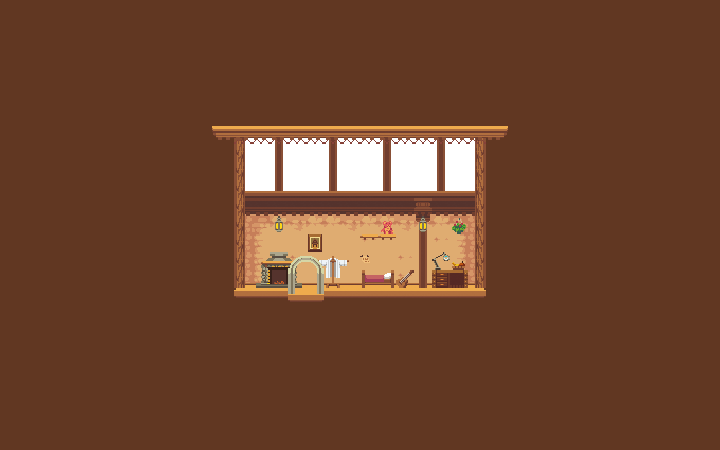
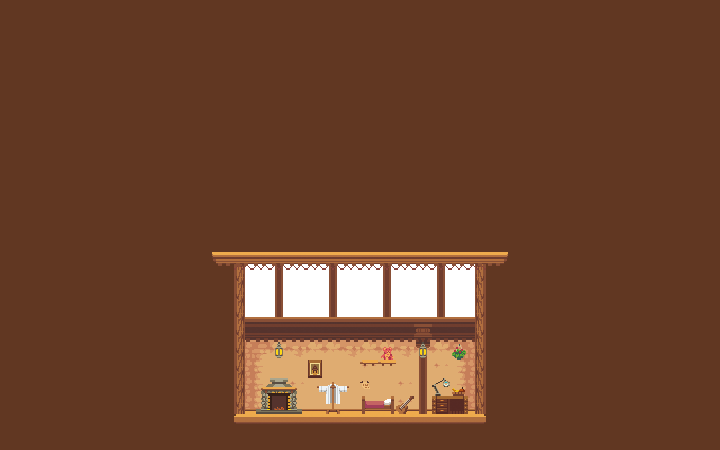
feat : Lisa, Inventory 추가

Changed region(s): [[0.275, 0.28, 0.7028, 0.9644]]

diff --git a/WinAPI/CSceneStore.cpp b/WinAPI/CSceneStore.cpp
@@ -1,2 +1,105 @@
 #include "framework.h"
 #include "CSceneStore.h"
+
+#include "WinAPI.h"
+#include "CInputManager.h"
+#include "CTimeManager.h"
+#include "CRenderManager.h"
+#include "CEventManager.h"
+#include "CCameraManager.h"
+#include "CPathManager.h"
+
+#include "CPlayer.h"
+#include "CSlug.h"
+#include "CCameraController.h"
+#include "CButton.h"
+#include "CPanel.h"
+#include "CResourceManager.h"
+#include "CImage.h"
+#include "CImageObject.h"
+#include "CSoundManager.h"
+#include "CGameManager.h"
+#include "CDoor.h"
+#include "CCarol.h"
+#include "CLisa.h"
+
+CSceneStore::CSceneStore()
+{
+	pPlayer = nullptr;
+	m_pImage = nullptr;
+}
+
+CSceneStore::~CSceneStore()
+{
+}
+
+void CSceneStore::Init()
+{
+	pPlayer = new CPlayer();
+	AddGameObject(pPlayer);
+
+	m_pImage = RESOURCE->LoadImg(L"Panselo_Back", L"Image\\Panselo_Back.png");
+	LoadBackground(m_pImage);
+
+	m_pImage = RESOURCE->LoadImg(L"Panselo_Middle", L"Image\\Panselo_Middle.png");
+	LoadMiddleground(m_pImage);
+
+	m_pImage = RESOURCE->LoadImg(L"Store", L"Image\\Store.png");
+	CImageObject* pForest = new CImageObject;
+	pForest->SetImage(m_pImage);
+	AddGameObject(pForest);
+
+	CDoor* pDoor = new CDoor;
+	pDoor->SetPos(323, 400);
+	pDoor->SetScene(GroupScene::Stage01);
+	pDoor->SetImage(false);
+	pDoor->SetPlayerStartPos(Vector(845, 488));
+	AddGameObject(pDoor);
+
+	CLisa* pLisa = new CLisa;
+	pLisa->SetPos(376, 400);
+	AddGameObject(pLisa);
+
+}
+
+void CSceneStore::Enter()
+{
+	CAMERA->FadeIn(0.25f);
+
+	//pLoad_BGM = RESOURCE->FindSound(L"Panselo");
+	//SOUND->Play(pLoad_BGM, 1, true);
+
+	CAMERA->SetMapSize(Vector(m_pImage->GetWidth(), m_pImage->GetHeight()));
+	CAMERA->ZoomInOut(3);
+	
+	CAMERA->SetTargetObj(pPlayer);
+
+	pPlayer->SetPos(GAME->GetPlayerStartPos());
+	pPlayer->SetGravity(1);
+	pPlayer->SetGround(0);
+
+	CAMERA->FadeIn(0.25f);
+	LoadTile(GETPATH + L"Tile\\Store.tile");
+}
+
+void CSceneStore::Update()
+{
+	if (BUTTONDOWN(VK_ESCAPE))
+	{
+		CAMERA->FadeOut(0.25f);
+		DELAYCHANGESCENE(GroupScene::Title, 0.25f);
+	}
+
+}
+
+void CSceneStore::Render()
+{
+}
+
+void CSceneStore::Exit()
+{
+}
+
+void CSceneStore::Release()
+{
+}

diff --git a/WinAPI/CSceneStage01.cpp b/WinAPI/CSceneStage01.cpp
@@ -47,23 +47,23 @@ void CSceneStage01::Init()
 	CDoor* pDoor = new CDoor;
 	pDoor->SetPos(320, 489);
 	pDoor->SetScene(GroupScene::GailRoom);
-	pDoor->SetPlayerStartPos(Vector (306, 272));
+	pDoor->SetPlayerStartPos(Vector (306, 398));
 	AddGameObject(pDoor);
 
 	CDoor* pStoreDoor = new CDoor;
 	pStoreDoor->SetPos(845, 489);
-	pStoreDoor->SetScene(GroupScene::GailRoom);
-	pStoreDoor->SetPlayerStartPos(Vector(306, 272));
+	pStoreDoor->SetScene(GroupScene::Store);
+	pStoreDoor->SetPlayerStartPos(Vector(323, 398));
 	AddGameObject(pStoreDoor);
 
 	CDoor* pGailRoomDoor = new CDoor;
 	pGailRoomDoor->SetPos(1300, 489);
 	pGailRoomDoor->SetScene(GroupScene::GailRoom);
-	pGailRoomDoor->SetPlayerStartPos(Vector(306, 272));
+	pGailRoomDoor->SetPlayerStartPos(Vector(306, 398));
 	AddGameObject(pGailRoomDoor);
 
 	CCarol* pCarol = new CCarol;
-	pCarol->SetPos(960, 489);
+	pCarol->SetPos(625, 489);
 	AddGameObject(pCarol);
 
 	CEventMark* pMilestone = new CEventMark;

diff --git a/WinAPI/CInventory.cpp b/WinAPI/CInventory.cpp
@@ -1,0 +1,34 @@
+#include "framework.h"
+#include "CInventory.h"
+
+CInventory::CInventory()
+{
+}
+
+CInventory::~CInventory()
+{
+}
+
+void CInventory::Init()
+{
+}
+
+void CInventory::Enter()
+{
+}
+
+void CInventory::Update()
+{
+}
+
+void CInventory::Render()
+{
+}
+
+void CInventory::Exit()
+{
+}
+
+void CInventory::Release()
+{
+}

diff --git a/WinAPI/CLisa.h b/WinAPI/CLisa.h
@@ -1,0 +1,23 @@
+
+#pragma once
+#include "CNPC.h"
+
+class CLisa :
+	public CNPC
+{
+public:
+	CLisa();
+	virtual ~CLisa();
+
+private:
+
+private:
+	void Init() override;
+	void Update() override;
+	void Render() override;
+	void Release() override;
+
+	void OnCollisionStay(CCollider* pOtherCollider) override;
+
+	void Talk();
+};

diff --git a/WinAPI/CSceneTitle.cpp b/WinAPI/CSceneTitle.cpp
@@ -48,7 +48,7 @@ void CSceneTitle::Update()
 		//SOUND->FadeOut(pLoad_BGM, 3.f, 0);
 		CAMERA->FadeOut(0.25f);
 		DELAYCHANGESCENE(GroupScene::GailRoom, 0.25f);
-		GAME->SetPlayerStartPos(Vector(378, 270));
+		GAME->SetPlayerStartPos(Vector(378, 398));
 	}
 	if (BUTTONDOWN(VK_F2))
 	{

diff --git a/WinAPI/CInventory.h b/WinAPI/CInventory.h
@@ -4,15 +4,14 @@
 class CPlayer;
 class CImage;
 
-class CSceneStore :
+class CInventory :
 	public CScene
 {
 public:
-	CSceneStore();
-	virtual ~CSceneStore();
+	CInventory();
+	virtual ~CInventory();
 
 private:
-	CPlayer* pPlayer;
 	CImage* m_pImage;
 
 private:
